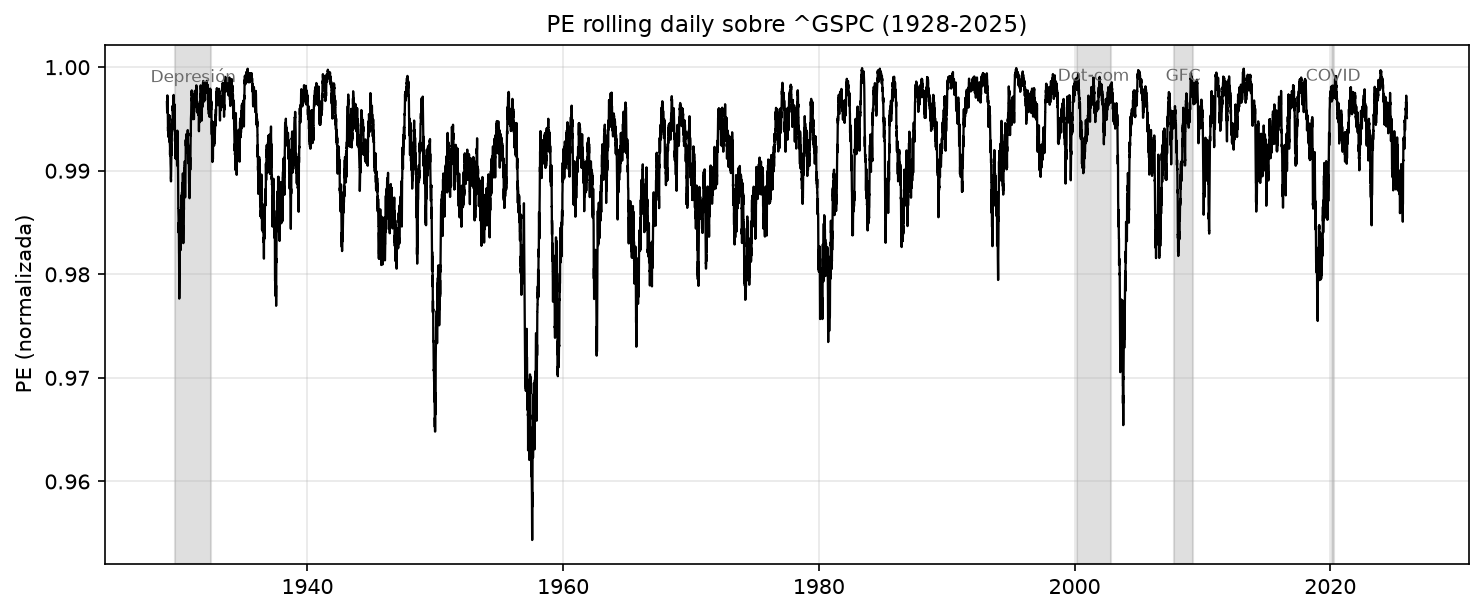
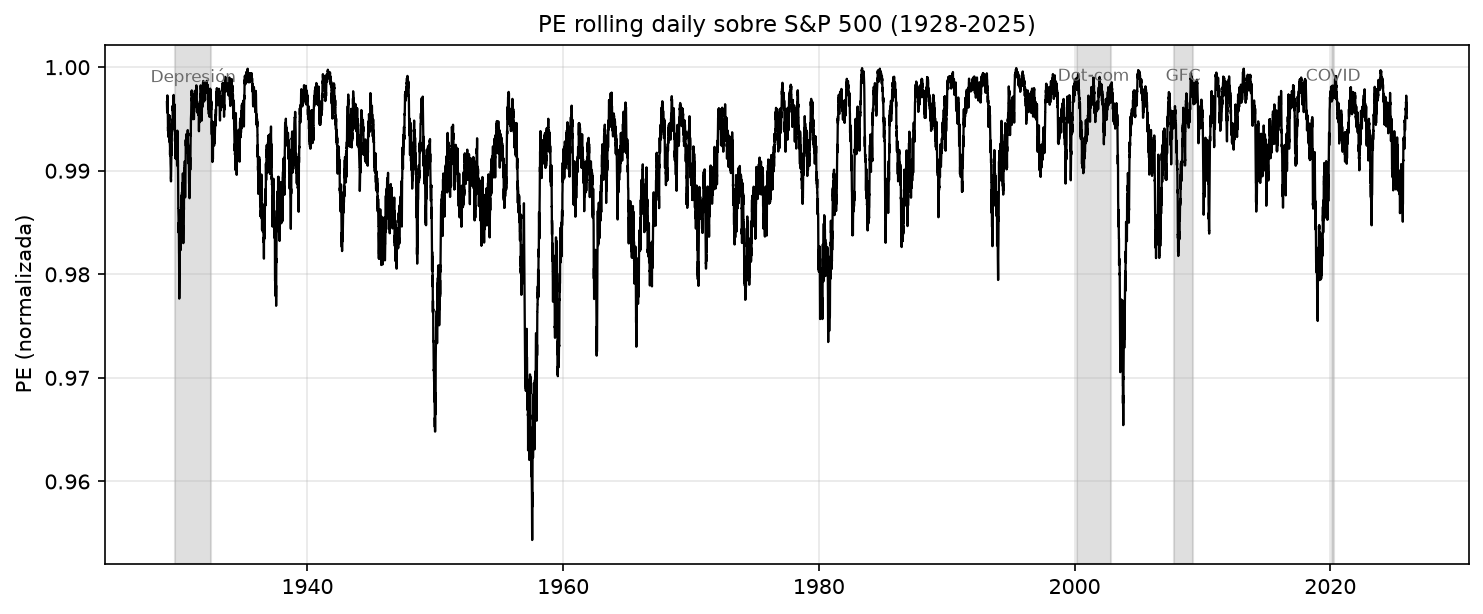
Small changes in e2 and e6

Changed region(s): [[0.3722, 0.0, 0.7134, 0.0619]]

diff --git a/e6-sector-entropy/run_bh.py b/e6-sector-entropy/run_bh.py
@@ -1,0 +1,44 @@
+"""Corrección por multiplicidad (Benjamini-Hochberg al 5%) sobre los rankings anuales de E6.
+
+Post-procesamiento de outputs/percentiles.json y outputs/markets_percentiles.json: la confianza
+direccional de cada sector o mercado (masa bootstrap del lado hacia el que apunta) se convierte en
+un p-valor bilateral p = 2 * (1 - masa) y se aplica BH sobre las 11 comparaciones sectoriales y las
+9 de mercados, por ventana. No recalcula nada del bootstrap. Output: outputs/bh_correction.json
+"""
+import json
+from pathlib import Path
+
+OUT = Path(__file__).resolve().parent / "outputs"
+ALPHA = 0.05
+
+
+def bh(pvals: dict, alpha: float) -> set:
+    items = sorted(pvals.items(), key=lambda kv: kv[1])
+    m = len(items)
+    k = 0
+    for i, (_, p) in enumerate(items, 1):
+        if p <= alpha * i / m:
+            k = i
+    return {name for name, _ in items[:k]}
+
+
+def main() -> None:
+    result = {"alpha": ALPHA, "p_value": "2 * (1 - confianza_direccional)", "sectores": {}, "mercados": {}}
+    for fname, key in (("percentiles.json", "sectores"), ("markets_percentiles.json", "mercados")):
+        data = json.load(open(OUT / fname))
+        for window, rows in data.items():
+            pv = {}
+            for name, v in rows.items():
+                c = v["confianza_direccional"]
+                c = c / 100 if c > 1 else c
+                pv[name] = 2 * (1 - c)
+            surv = bh(pv, ALPHA)
+            result[key][window] = {name: {"p_bilateral": round(p, 4), "senal": rows[name]["senal"],
+                                          "bh_5pct": name in surv} for name, p in pv.items()}
+            print(f"{key} {window}: sobreviven BH -> {sorted(surv)}")
+    json.dump(result, open(OUT / "bh_correction.json", "w"), indent=2, ensure_ascii=False)
+    print(f"-> {OUT / 'bh_correction.json'}")
+
+
+if __name__ == "__main__":
+    main()

diff --git a/e2-entropy-evolution/helpers.py b/e2-entropy-evolution/helpers.py
@@ -82,20 +82,11 @@ def plot_main(pe_series, title, out_path, crisis_bands=CRISIS_BANDS):
 
 def plot_trend(pe_series, title, out_path):
     yearly = pe_series.resample("1YE").mean().dropna()
-    x = np.arange(len(yearly))
-    slope, intercept = np.polyfit(x, yearly.values, 1)
-    fit = slope * x + intercept
-    ss_res = np.sum((yearly.values - fit) ** 2)
-    ss_tot = np.sum((yearly.values - yearly.values.mean()) ** 2)
-    r2 = 1 - ss_res / ss_tot
 
     fig, ax = plt.subplots(figsize=(10, 4.2))
-    ax.plot(yearly.index, yearly.values, "o-", color="black", lw=1.2, ms=3, label="PE promedio anual")
-    ax.plot(yearly.index, fit, "--", color="crimson", lw=1.5,
-            label=f"Regresión lineal ($R^2={r2:.2f}$, slope={slope:+.2e}/año)")
+    ax.plot(yearly.index, yearly.values, "o-", color="black", lw=1.2, ms=3)
     ax.set_ylabel("PE promedio anual")
     ax.set_title(title, fontsize=11)
-    ax.legend(fontsize=9, loc="best")
     ax.grid(alpha=0.3)
     plt.tight_layout()
     fig.savefig(out_path, dpi=150, bbox_inches="tight")

diff --git a/e2-entropy-evolution/run_daily.py b/e2-entropy-evolution/run_daily.py
@@ -13,7 +13,7 @@ def main():
     run_subexperiment(
         name="daily", price=price,
         main_cfg=DAILY_MAIN, sens_cfg=DAILY_SENS,
-        title_main="PE rolling daily sobre ^GSPC (1928-2025)",
+        title_main="PE rolling daily sobre S&P 500 (1928-2025)",
         mk_freq="1YE", br_freq="1ME",
         n_breaks=10,
     )

diff --git a/e6-sector-entropy/README.md b/e6-sector-entropy/README.md
@@ -36,3 +36,7 @@ dot-com, 2008, COVID y bear de tasas 2022 (ventanas pico-valle). Semillas fijas.
 
 `outputs/` con percentiles por config (CSV), resultados (JSON) y los charts de
 la sección (rotación, crisis, co-evolución, choropleth de mercados).
+
+## Corrección por multiplicidad
+
+`python run_bh.py` aplica Benjamini-Hochberg al 5% sobre la confianza direccional de los rankings anuales (11 sectores, 9 mercados, por ventana) y escribe `outputs/bh_correction.json`. Es post-procesamiento de `percentiles.json` y `markets_percentiles.json`; no recalcula el bootstrap.
